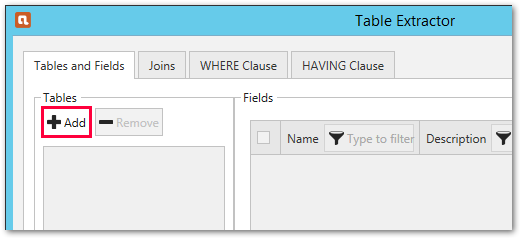
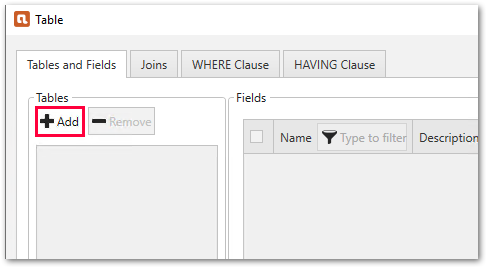
xfa poc

Changed region(s): [[0.0, 0.0, 0.9856, 0.9665], [0.77, 0.2636, 0.8008, 0.2929]]

diff --git a/content/_de/xtract-for-alteryx/index.md b/content/_de/xtract-for-alteryx/index.md
@@ -13,10 +13,15 @@ lang: de_DE
 Willkommen in der Online Help von Xtract for Alteryx.
 
 
-Xtract for Alteryx ist ein Plug-In für den Alteryx Designer und Server.
+Xtract for Alteryx ist ein Plug-In für den [Alteryx Designer und Server](https://help.alteryx.com/).
 Xtract for Alteryx ermöglicht es Daten aus dem SAP-System direkt innerhalb des Alteryx Designers in den Datenfluss einzubinden.
 
 ![XFA-Architecture](/img/content/xfa/Xtract_for_Alteryx.png){:class="img-responsive"}
+
+
+{: .box-tip }
+**Tipp:** Eine kurze Einführung in das Produkt finden Sie unter [Erste Schritte mit Alteryx](./erste-schritte).
+
 
 ### Verfügbare Komponenten
 Die folgenden Komponenten sind innerhalb von Xtract for Alteryx verfügbar:
@@ -31,6 +36,8 @@ Die folgenden Komponenten sind innerhalb von Xtract for Alteryx verfügbar:
 
 {: .box-note }
 **Hinweis:** Eine [SAP-Verbindung](./einfuehrung/sap-verbindung) ist eine Voraussetzung für die Verwendung der Komponenten von Xtract for Alteryx.
+
+
 Je nach Art des SAP-Quellsystems gibt es unterschiedliche Szenarien beim Einsatz der Komponenten:
 
 In der unten stehenden Übersicht sehen Sie, bei welcher Komponente Lese (R),- und Schreibrechte (W) zur Verfügung stehen. 

diff --git a/content/_en/xtract-for-alteryx/index.md b/content/_en/xtract-for-alteryx/index.md
@@ -13,10 +13,14 @@ lang: en_GB
 Welcome to the Online Help of Xtract for Alteryx.
 
 
-Xtract for Alteryx is a plug-in for Alteryx Designer and Server. 
+Xtract for Alteryx is a plug-in for [Alteryx Designer and Server](https://help.alteryx.com/). 
 Xtract for Alteryx enables integrating data from the SAP system into the data flow of your Alteryx solution.
 
 ![XFA-Architecture](/img/content/xfa/Xtract_for_Alteryx.png){:class="img-responsive"}
+
+{: .box-tip }
+**Tip:** For a short introduction into the product, see [Getting Started with Alteryx](./getting-started).
+
 
 ### Xtract for Alteryx Components
 The following components are available within Xtract for Alteryx:

diff --git a/content/_de/xtract-for-alteryx/erste-schritte.md b/content/_de/xtract-for-alteryx/erste-schritte.md
@@ -43,7 +43,14 @@ Suchergebnisse erscheinen im Vorschaufenster.
 Die Anwendung kehrt zum Hauptfenster der Komponente zurück.<br>
 
 Spalten der aus SAP abgerufenen Tabelle werden im Unterabschnitt **Fields** angezeigt.<br>
-![Table-Form](/img/content/xfa/table_fields_filter.png){:class="img-responsive"}<br>
+![Table-Form](/img/content/table/table_fields_filter.png){:class="img-responsive"}<br>
+
+| Nummer | Element / Beschreibung | 
+|:------------|:-----|
+| 1  | Feldselektion, Filterung |  
+| 2  | Filterfelder   |  
+| 3  | Conversion Routine  |
+| 4  | Vorschaufenster, Ergebnis der Umwandlung (Conversion)   |   
 
 ### Filtern von Tabellen
 

diff --git a/content/_en/xtract-for-alteryx/getting-started.md b/content/_en/xtract-for-alteryx/getting-started.md
@@ -43,7 +43,16 @@ Search results appear in the preview window.
 The application returns to the main window of the component. <br>
 
 Columns of the table retrieved from SAP are displayed in the subsection **Fields**. <br>
-![Table-Form](/img/content/xfa/table_fields_filter.png){:class="img-responsive"}<br>
+![Table-Form](/img/content/table/table_fields_filter.png){:class="img-responsive"}<br>
+
+
+| Number | Element | Description | 
+|:------------|:-----:|:----:|
+| 1 | Field selection, filtering   |  
+| 2  |   Filter fields  |  
+| 3  |  Conversion Routine  |   
+| 4 | Preview window, result of the conversion    |
+
 
 ### Filtering tables
 

diff --git a/_includes/_content/en/tables/define-a-table-extraction.md b/_includes/_content/en/tables/define-a-table-extraction.md
@@ -18,6 +18,15 @@ The application now returns to the main window "Extract Single and Joint SAP Tab
 Columns of the table retrieved from SAP are displayed in the subsection **Fields**.  
 ![Table-Form](/img/content/table/table_fields_filter.png){:class="img-responsive"}
 
+| Number | Element | Description | 
+|:------------|:-----:|:----:|
+| 1 | Field selection, filtering   |  
+| 2  |   Filter fields  |  
+| 3  |  [Conversion Routine](./table/tables-and-fields#fields)    |   
+| 4 | Preview window, result of the conversion    |
+
+
+
 
 ### Filtering tables
 

diff --git a/_includes/_content/de/table/extraktion-anlegen.md b/_includes/_content/de/table/extraktion-anlegen.md
@@ -17,6 +17,13 @@ Die Anwendung kehrt zum Hauptfenster "Extract Single and Joint SAP Tables or Vie
 Spalten der aus SAP abgerufenen Tabelle werden im Unterabschnitt **Fields** angezeigt.  
 ![Table-Form](/img/content/table/table_fields_filter.png){:class="img-responsive"}
 
+| Nummer | Element / Beschreibung | 
+|:------------|:-----|
+| 1  | Feldselektion, Filterung |  
+| 2  | Filterfelder   |  
+| 3  | [Conversion Routine](./table/tabellen_und_felder#fields)  |
+| 4  | Vorschaufenster, Ergebnis der Umwandlung (Conversion)   |   
+
 
 
 ### Tabellen filtern
